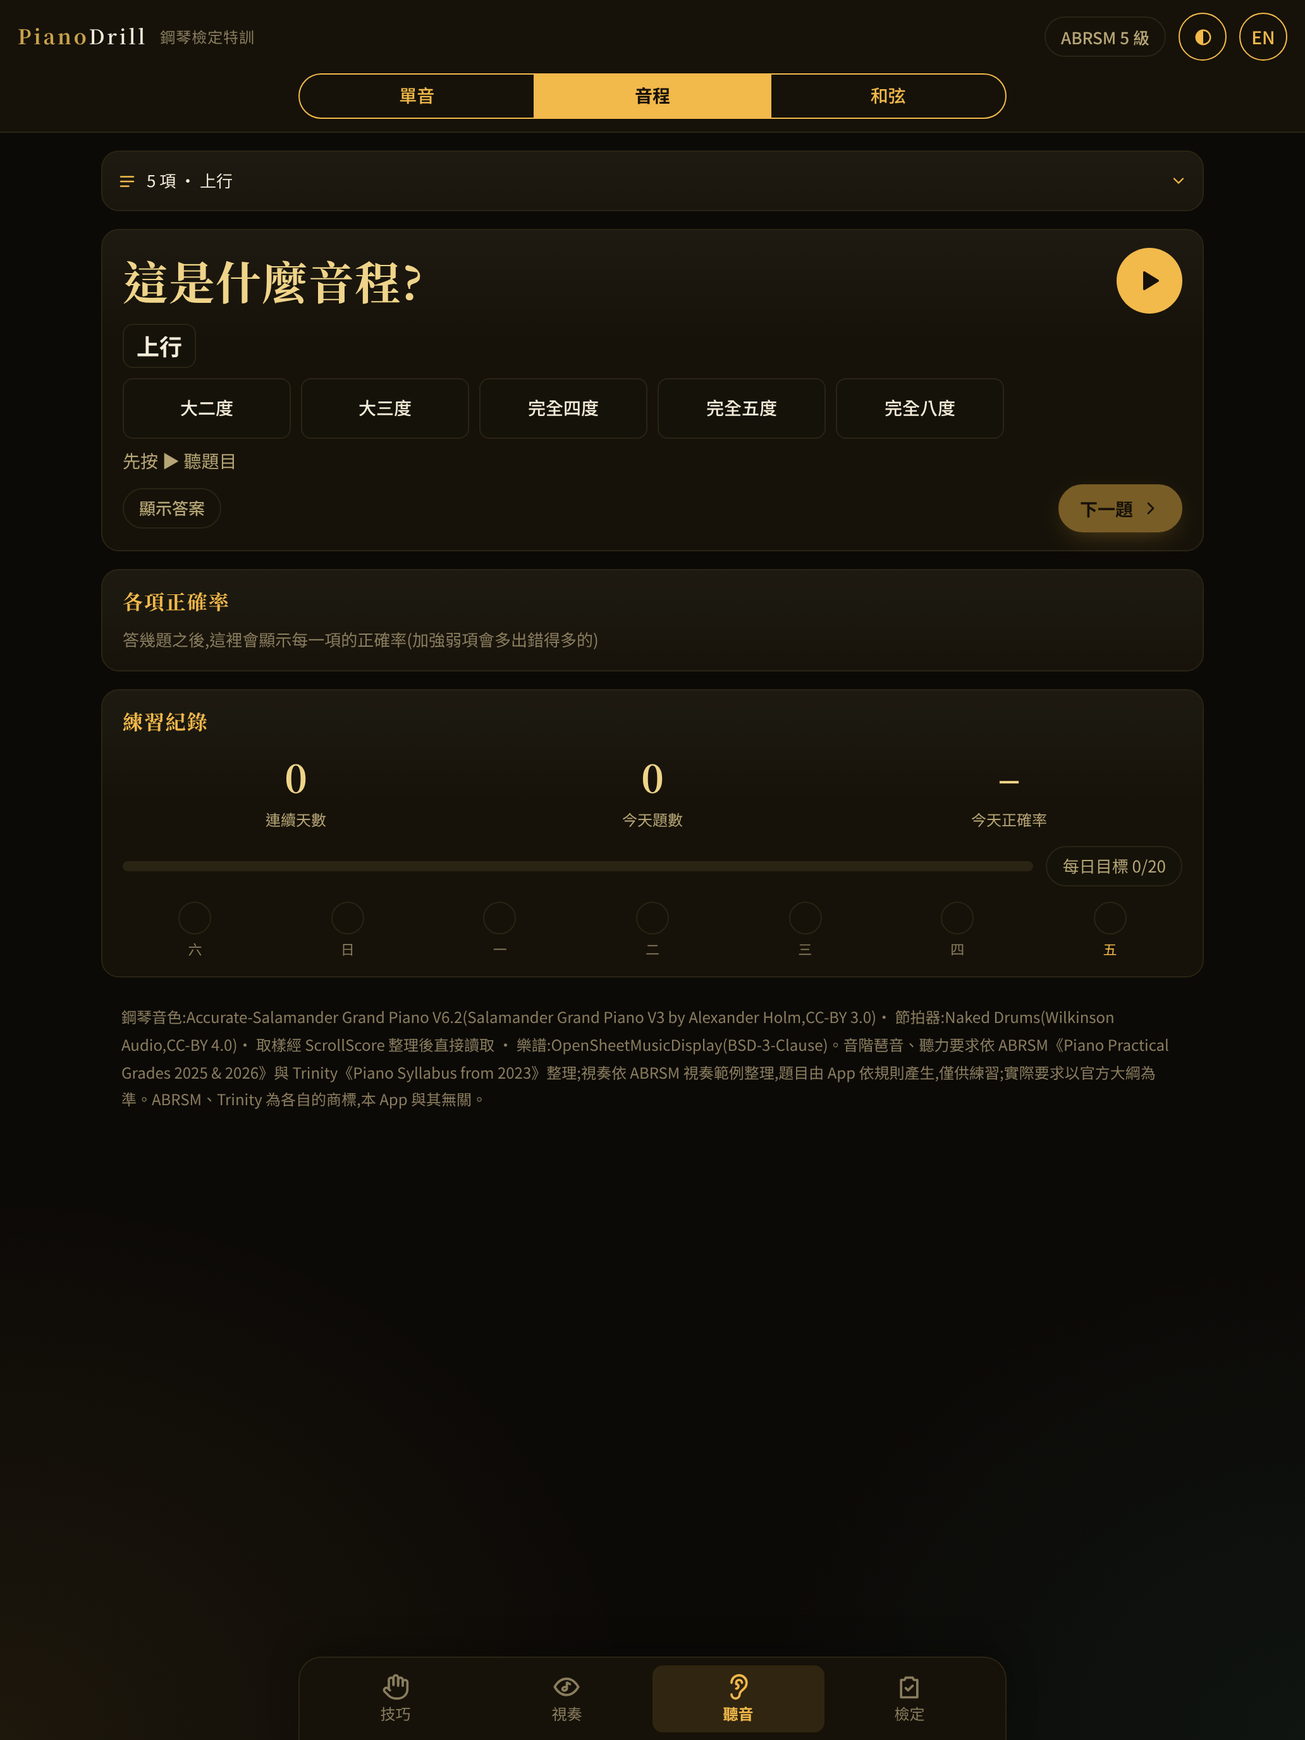
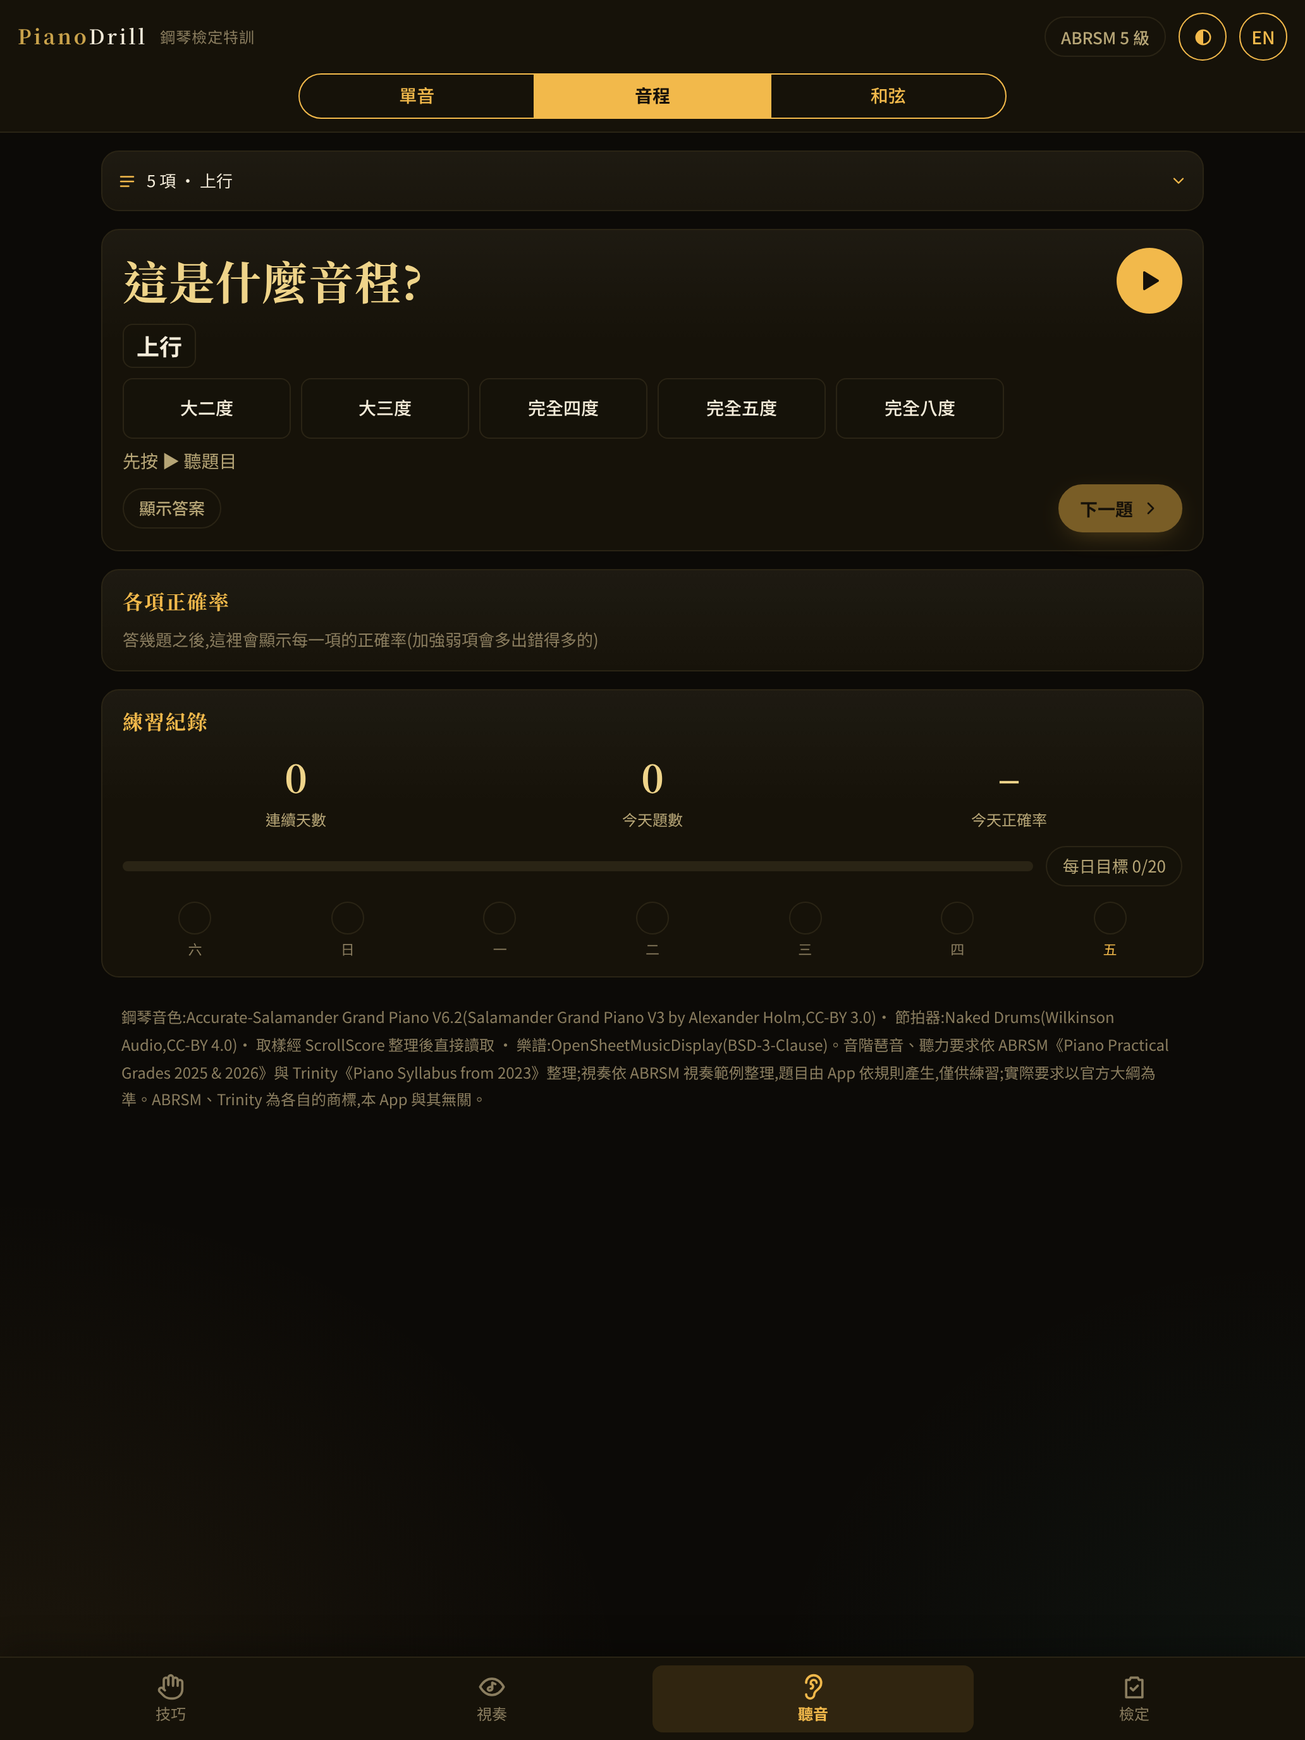
Landscape layout: left tab rail on phones, full-width tab bar everywhere
- Phone landscape: tabs become a full-height rail on the left, header on one line,
  exam settings side by side, compact sight question card
- Technique score in landscape fits the first screen (both staves) and zooms to
  full height during playback; ignores expanded setup cards so the size is stable
- Tablet landscape / desktop: tab bar spans the full width with four equal columns
- Shorter English labels where the half-width exam card wrapped
- layout.mjs checks content is not covered by the left rail; screenshots regenerated

Claude-Session: https://claude.ai/code/session_01CU4RNRRuP9Ch41J4DcSHPj

diff --git a/index.html b/index.html
@@ -18,7 +18,7 @@
 <title>PianoDrill 鋼琴檢定特訓</title>
 <link rel="preconnect" href="https://fonts.googleapis.com">
 <link href="https://fonts.googleapis.com/css2?family=Noto+Serif+TC:wght@600;700&family=Noto+Sans+TC:wght@400;500;700&display=swap" rel="stylesheet">
-<link rel="stylesheet" href="css/app.css?v=01997fa8fd">
+<link rel="stylesheet" href="css/app.css?v=24f6f7d558">
 <link rel="stylesheet" href="css/sight.css?v=5b6b788429">
 </head>
 <body>
@@ -385,9 +385,9 @@
   </div>
 </div>
 
-<script type="importmap">{"imports":{"./js/ear/app.js":"./js/ear/app.js?v=ba708c0490","./js/ear/aural.js":"./js/ear/aural.js?v=7390a4e64c","./js/ear/ear.js":"./js/ear/ear.js?v=ad307c1316","./js/ear/music.js":"./js/ear/music.js?v=11655ff5cd","./js/ear/store.js":"./js/ear/store.js?v=5ace8d1f1f","./js/ear/strings.js":"./js/ear/strings.js?v=eaf7382b0f","./js/main.js":"./js/main.js?v=188bbda61f","./js/shared/audio.js":"./js/shared/audio.js?v=bfd0c34435","./js/shared/i18n.js":"./js/shared/i18n.js?v=e7fb6b2b19","./js/sight/app.js":"./js/sight/app.js?v=7292e6f75a","./js/sight/generator/fingerprint.js":"./js/sight/generator/fingerprint.js?v=2307e1ef7e","./js/sight/generator/generate.js":"./js/sight/generator/generate.js?v=efedf8371e","./js/sight/generator/harmony.js":"./js/sight/generator/harmony.js?v=0ca3956615","./js/sight/generator/index.js":"./js/sight/generator/index.js?v=f1aee5c391","./js/sight/generator/melody.js":"./js/sight/generator/melody.js?v=aa11daf1b9","./js/sight/generator/meter.js":"./js/sight/generator/meter.js?v=efdd9ec3e8","./js/sight/generator/musicxml.js":"./js/sight/generator/musicxml.js?v=917ffeb42b","./js/sight/generator/random.js":"./js/sight/generator/random.js?v=3b9b511386","./js/sight/generator/rhythm.js":"./js/sight/generator/rhythm.js?v=1f2c8f6cbc","./js/sight/generator/theory.js":"./js/sight/generator/theory.js?v=bca3da5ea8","./js/sight/i18n.js":"./js/sight/i18n.js?v=f2c8c777d1","./js/sight/mic.js":"./js/sight/mic.js?v=78259aee92","./js/sight/playback.js":"./js/sight/playback.js?v=b5a78efbb5","./js/sight/scoring.js":"./js/sight/scoring.js?v=679df8a46b","./js/sight/stage.js":"./js/sight/stage.js?v=9ca7fb07ed","./js/tech/app.js":"./js/tech/app.js?v=a1c8df45ba","./js/tech/exercise.js":"./js/tech/exercise.js?v=daf4f223f6","./js/tech/fingering.js":"./js/tech/fingering.js?v=2f23bdb12b","./js/tech/hanon.js":"./js/tech/hanon.js?v=3f1086105e","./js/tech/musicxml.js":"./js/tech/musicxml.js?v=4257980f50","./js/tech/store.js":"./js/tech/store.js?v=75f4c27725","./js/tech/strings.js":"./js/tech/strings.js?v=df142b2981","./js/tech/syllabus.js":"./js/tech/syllabus.js?v=cdf3a21898","./js/tech/theory.js":"./js/tech/theory.js?v=ed03457554"}}</script>
+<script type="importmap">{"imports":{"./js/ear/app.js":"./js/ear/app.js?v=ba708c0490","./js/ear/aural.js":"./js/ear/aural.js?v=7390a4e64c","./js/ear/ear.js":"./js/ear/ear.js?v=ad307c1316","./js/ear/music.js":"./js/ear/music.js?v=11655ff5cd","./js/ear/store.js":"./js/ear/store.js?v=5ace8d1f1f","./js/ear/strings.js":"./js/ear/strings.js?v=eaf7382b0f","./js/main.js":"./js/main.js?v=1ec0774c7d","./js/shared/audio.js":"./js/shared/audio.js?v=bfd0c34435","./js/shared/i18n.js":"./js/shared/i18n.js?v=e7fb6b2b19","./js/sight/app.js":"./js/sight/app.js?v=a601812f5a","./js/sight/generator/fingerprint.js":"./js/sight/generator/fingerprint.js?v=2307e1ef7e","./js/sight/generator/generate.js":"./js/sight/generator/generate.js?v=efedf8371e","./js/sight/generator/harmony.js":"./js/sight/generator/harmony.js?v=0ca3956615","./js/sight/generator/index.js":"./js/sight/generator/index.js?v=f1aee5c391","./js/sight/generator/melody.js":"./js/sight/generator/melody.js?v=aa11daf1b9","./js/sight/generator/meter.js":"./js/sight/generator/meter.js?v=efdd9ec3e8","./js/sight/generator/musicxml.js":"./js/sight/generator/musicxml.js?v=917ffeb42b","./js/sight/generator/random.js":"./js/sight/generator/random.js?v=3b9b511386","./js/sight/generator/rhythm.js":"./js/sight/generator/rhythm.js?v=1f2c8f6cbc","./js/sight/generator/theory.js":"./js/sight/generator/theory.js?v=bca3da5ea8","./js/sight/i18n.js":"./js/sight/i18n.js?v=d3d110722a","./js/sight/mic.js":"./js/sight/mic.js?v=78259aee92","./js/sight/playback.js":"./js/sight/playback.js?v=b5a78efbb5","./js/sight/scoring.js":"./js/sight/scoring.js?v=679df8a46b","./js/sight/stage.js":"./js/sight/stage.js?v=9ca7fb07ed","./js/tech/app.js":"./js/tech/app.js?v=16f605a639","./js/tech/exercise.js":"./js/tech/exercise.js?v=daf4f223f6","./js/tech/fingering.js":"./js/tech/fingering.js?v=2f23bdb12b","./js/tech/hanon.js":"./js/tech/hanon.js?v=3f1086105e","./js/tech/musicxml.js":"./js/tech/musicxml.js?v=4257980f50","./js/tech/store.js":"./js/tech/store.js?v=75f4c27725","./js/tech/strings.js":"./js/tech/strings.js?v=f389816556","./js/tech/syllabus.js":"./js/tech/syllabus.js?v=cdf3a21898","./js/tech/theory.js":"./js/tech/theory.js?v=ed03457554"}}</script>
 <script type="application/json" id="pdVersions">{"data/aural.json":"c2589a3fb5","data/fingerings.json":"01a74f2d0c","data/sight-rules.json":"c79f4a9db5","data/syllabus.json":"30b5443db2"}</script>
 <script src="vendor/opensheetmusicdisplay.min.js?v=4bfeb3d01c"></script>
-<script type="module" src="js/main.js?v=188bbda61f"></script>
+<script type="module" src="js/main.js?v=1ec0774c7d"></script>
 </body>
 </html>

diff --git a/css/app.css b/css/app.css
@@ -338,7 +338,7 @@ main{padding-bottom:calc(84px + env(safe-area-inset-bottom))}
   font-family:inherit;font-size:var(--fs-xs);padding:6px 0;cursor:pointer;border-radius:var(--radius-sm);min-height:52px}
 .tabbar button[aria-selected="true"]{color:var(--gold)}
 .tabbar button[aria-selected="true"] span{font-weight:700}
-@media (min-width:901px){ .tabbar{left:50%;right:auto;transform:translateX(-50%);width:min(560px, 100%);border:1px solid var(--line);border-bottom:0;border-radius:var(--radius-lg) var(--radius-lg) 0 0} }
+/* 寬畫面(平板橫式、電腦)也跟直式一樣滿版貼底、四格平均分配整個寬度(使用者要求) */
 #examChip{max-width:44vw;overflow:hidden;text-overflow:ellipsis}
 
 /* 選擇器:每一列 = 標籤 + 一排按鈕(太多時橫向捲動,頁面不橫向捲) */
@@ -690,4 +690,48 @@ body.land-play #t-stage{flex:1;display:flex;flex-direction:column;justify-conten
   .mod-side .picker .opt{min-width:0;padding:0 6px}
   #mod-tech .picker .opts[data-k="key"],#mod-tech .picker .opts[data-k="no"]{--cw:50px}
   #mod-tech .picker .opts[data-k="octaves"]{--cw:72px}
+}
+
+/* ══ 手機橫放(高度 ≤ 500):使用者反映比例怪、底部四個分頁卡住內容 ══
+   - 四個分頁改成左邊的直欄(橫放時寬度多、高度少;左邊本來就是瀏海/動態島的區域),下面什麼都不蓋
+   - 頂欄一行:藏副標與考試標籤(底部「檢定」分頁就有)
+   - 題目卡的「點題提示」字縮小;檢定分頁「考試設定」與「抽考設定」排在同一列 */
+@media (orientation:landscape) and (max-height:500px){
+  body{padding-left:calc(68px + env(safe-area-inset-left))}
+  .tabbar{top:0;bottom:0;left:0 !important;right:auto;width:calc(68px + env(safe-area-inset-left)) !important;transform:none !important;
+    display:flex;flex-direction:column;justify-content:center;gap:6px;border:0;border-right:1px solid var(--line);border-radius:0 !important;box-shadow:none;
+    padding:max(6px, env(safe-area-inset-top)) 6px max(6px, env(safe-area-inset-bottom)) max(6px, env(safe-area-inset-left))}
+  .tabbar button{flex-direction:column !important;gap:2px !important;min-height:52px !important;padding:4px 0 !important;font-size:10px;justify-content:center}
+  .tabbar svg{width:20px !important;height:20px !important}
+  body.land-play .tabbar{transform:none !important}
+  main{padding-bottom:max(12px, env(safe-area-inset-bottom)) !important}
+  footer{padding-bottom:max(16px, env(safe-area-inset-bottom))}
+  header{flex-wrap:nowrap}
+  .tagline,#examChip{display:none !important}
+  .subnav{flex:1 1 auto;max-width:460px;margin-left:auto}
+  .q-title.empty,#mod-ear .q-title.empty{font-size:var(--fs-lg)}
+  /* 檢定:兩條收起來的設定列並排(頁尾排最後:格子裡沒寫 order 的會被排到前面) */
+  body.view-exam footer{order:99}
+  body.view-exam #examSetup .fields{grid-template-columns:1fr}
+  body.view-exam .mod .setup .fields{grid-template-columns:repeat(2, minmax(0, 1fr))}
+  body.view-exam .exam-parts{grid-template-columns:1fr}
+  body.view-exam .part{min-height:0;flex-direction:row;align-items:baseline;gap:8px}
+  body.view-exam .part small{min-height:0}
+  body.view-exam main{display:grid;grid-template-columns:minmax(0,1fr) minmax(0,1fr);gap:8px;align-items:start}
+  body.view-exam main > .mod:not([hidden]){display:contents}
+  body.view-exam main > *{grid-column:1 / -1}
+  body.view-exam #examSetup{grid-column:1;grid-row:1}
+  body.view-exam #t-paneExam,body.view-exam #e-paneExam,body.view-exam #s-setup{grid-column:2;grid-row:1}
+  body.view-exam .mod-side > *,body.view-exam .mod-main > *{grid-column:1 / -1}
+  body.view-exam #t-paneExam,body.view-exam #e-paneExam,body.view-exam #s-setup{grid-column:2 !important}
+  /* 視奏題目卡:標題 | 標籤 | ▶ 一行,下面一行說明,再一行操作 */
+  #mod-sight .quiz{display:grid;grid-template-columns:auto minmax(0,1fr) auto;align-items:center;gap:4px 12px}
+  #mod-sight .q-head,#mod-sight .q-row{display:contents}
+  #s-title{grid-column:1;grid-row:1;font-size:24px;height:auto}
+  #mod-sight .q-row .q-tags{grid-column:2;grid-row:1;min-height:0}
+  #s-play{grid-column:3;grid-row:1;width:44px;height:44px}
+  #s-message{grid-column:1 / -1;grid-row:2;font-size:var(--fs-sm);min-height:0}
+  #s-checklist{grid-column:1 / -1}
+  #mod-sight .q-foot{grid-column:1 / -1}
+  #mod-sight .q-tag{font-size:14px;padding:0 8px;line-height:26px}
 }

diff --git a/js/tech/app.js b/js/tech/app.js
@@ -449,11 +449,26 @@ function fitLandZoom(){
   if (!isPhoneLand()) { if (landZoom) { landZoom = null; return refit(); } return false; }
   const svg = $("osmd").querySelector("svg"); if (!svg || !osmd) return false;
   const H = svg.getBoundingClientRect().height; if (!H) return false;
-  const head = document.querySelector("header").offsetHeight, title = $("scoreCard").querySelector(".card-title").offsetHeight;
-  const avail = innerHeight - head - title - 44;           // 卡片與紙的上下內距、間隔
-  const z = Math.max(0.85, Math.min(1.8, osmd.zoom * avail / H));
+  // 第一個畫面(沒有捲動時)樂譜上緣以下還剩多少高度:雙手兩行譜都要看得到(以前照「樂譜卡貼頂欄」算,沒播放時下面那行被切掉)
+  // 播放中(樂譜卡貼在頂欄下面)可以放到滿版
+  const playing = document.body.classList.contains("land-play");
+  const top = playing ? document.querySelector("header").offsetHeight + $("scoreCard").querySelector(".card-title").offsetHeight + 30
+    : $("stage").getBoundingClientRect().top + scrollY - openSetupHeight();
+  const avail = Math.max(130, innerHeight - top - 14);
+  const z = Math.max(0.6, Math.min(1.8, osmd.zoom * avail / H));
   if (Math.abs(z - osmd.zoom) < 0.03) { landZoom = osmd.zoom; return false; }
   landZoom = z; return refit();
+}
+// 上方展開的設定卡不算(照收合時的位置算):不然展開/收合設定、切語言時樂譜大小跟著變
+function openSetupHeight(){
+  const st = $("stage").getBoundingClientRect().top;
+  // 並排的設定卡(橫式檢定分頁)垂直範圍重疊,只算一次
+  const spans = [...document.querySelectorAll(".setup.open .setup-body, .picker.open .setup-body")]
+    .map(el => el.getBoundingClientRect()).filter(r => r.height && r.bottom <= st)
+    .map(r => [r.top - 8, r.bottom]).sort((a, b) => a[0] - b[0]);
+  let h = 0, end = -Infinity;
+  for (const [a, b] of spans) { if (b <= end) continue; h += b - Math.max(a, end); end = b; }
+  return h;
 }
 function refit(){ osmd.zoom = scoreZoom(); lastZoom = osmd.zoom; renderOsmd(); measureNotes(); return true; }
 async function renderScore(){
@@ -852,12 +867,14 @@ function revealScore(){
     // 樂譜卡貼在工具列下面、下方分頁列收起來,樂譜延伸到底
     if (landScroll == null) landScroll = scrollY;
     document.body.classList.add("land-play");
+    if (fitLandZoom()) movePlayline(0, false);   // 播放時樂譜放大到滿版
     const top = $("scoreCard").getBoundingClientRect().top - document.querySelector("header").getBoundingClientRect().bottom - 6;
     if (Math.abs(top) > 2) window.scrollBy({ top, behavior: "smooth" });
     return;
   }
   const r = $("scoreCard").getBoundingClientRect(), bar = document.querySelector(".tabbar");
-  const bottom = bar ? bar.getBoundingClientRect().top : innerHeight;
+  const bt = bar ? bar.getBoundingClientRect().top : innerHeight;
+  const bottom = bt > innerHeight / 2 ? bt : innerHeight;   // 手機橫放時分頁列在左邊(top = 0),下面沒有東西擋
   if (r.bottom > bottom - 4) window.scrollBy({ top: Math.min(r.bottom - bottom + 8, r.top - 4), behavior: "smooth" });
   else if (r.top < 0) window.scrollBy({ top: r.top - 8, behavior: "smooth" });
 }
@@ -923,6 +940,7 @@ function stopPlayback(natural, keepView){
   if (!keepView && landScroll != null) {
     document.body.classList.remove("land-play");
     window.scrollTo({ top: landScroll, behavior: "smooth" }); landScroll = null;
+    fitLandZoom();   // 停止後縮回第一個畫面放得下的大小
   }
   if (play) { cancelAnimationFrame(play.raf); play = null; if (!natural) audio.stopAll(); }
   if (osmd && noteXs.length) { $("scroll").scrollLeft = 0; movePlayline(0, false); }

diff --git a/js/sight/i18n.js b/js/sight/i18n.js
@@ -18,6 +18,7 @@ export const I18N = {
     logTotal: '出過的題目',
     examReady: '按「產生新題目」開始',
     examNotYet: '這一級還沒有視奏題目',
+    examNotYetShort: '這一級還沒有題目',
     unsupportedTrinity: 'Trinity 的視奏還沒有出題規則:目前的規則是照 ABRSM 官方視奏範例(1–8 級)整理的,Trinity 的要求不同,不拿來充數。想練看譜可以先用「視奏」分頁自由練習 ABRSM 的題目。',
     unsupportedInitial: 'ABRSM 初級的視奏還沒有出題規則(目前只照官方範例做了 1–8 級)。可以先用「視奏」分頁練 1 級。',
     pageTitle: 'SightDrill — 視奏隨機題目生成器',
@@ -108,6 +109,7 @@ export const I18N = {
     logTotal: 'Tests seen',
     examReady: 'Tap New test to start',
     examNotYet: 'No sight-reading tests for this grade yet',
+    examNotYetShort: 'None for this grade yet',
     unsupportedTrinity: "Trinity sight-reading isn't covered yet: the rules here are modelled on ABRSM's official specimen tests (Grades 1–8), and Trinity's requirements differ, so we don't fake them. For reading practice, use the Sight-read tab with ABRSM tests.",
     unsupportedInitial: "ABRSM Initial sight-reading isn't covered yet (only Grades 1–8 so far, modelled on the official specimens). Try Grade 1 in the Sight-read tab.",
     pageTitle: 'SightDrill — Sight-Reading Test Generator',

diff --git a/js/sight/app.js b/js/sight/app.js
@@ -650,7 +650,7 @@ export function relang() {
   if (mode === 'exam') renderUnsupported();
 }
 export function examStatus() {
-  if (!examSupported()) return t('examNotYet');
+  if (!examSupported()) return t('examNotYetShort');
   const { today, streak } = practiceStats();
   return today ? t('practiceStats', { today, streak }) : t('examReady');
 }
@@ -1020,7 +1020,9 @@ function availableScoreHeight() {
   const header = document.querySelector('header');
   const top = header ? header.getBoundingClientRect().height : 0;
   const bar = document.getElementById('tabbar');
-  const bottom = bar && getComputedStyle(bar).position === 'fixed' ? bar.getBoundingClientRect().top : (window.innerHeight || document.documentElement.clientHeight);
+  // 分頁列在下面才扣掉它;手機橫放時分頁列是左邊的直欄(top = 0),不佔下面的高度
+  const barBox = bar ? bar.getBoundingClientRect() : null;
+  const bottom = barBox && barBox.top > window.innerHeight / 2 ? barBox.top : (window.innerHeight || document.documentElement.clientHeight);
   const card = $('scoreCard').getBoundingClientRect(), score = elements.score.getBoundingClientRect();
   const chrome = score.top - card.top;   // 樂譜卡的標題列與內距
   return Math.max(120, bottom - top - chrome - SCORE_BOTTOM_GAP);

diff --git a/js/tech/strings.js b/js/tech/strings.js
@@ -5,7 +5,7 @@ addStrings("tech", {
   lblSet: ["準備哪一組(Trinity)", "Set (Trinity)"],
   setA: ["A 組", "Set A"], setB: ["B 組", "Set B"],
   lblQuality: ["大調 / 小調", "Major / minor"], qAll: ["全部", "All"], qMajor: ["大調", "Major"], qMinor: ["小調", "Minor"],
-  lblMinorForm: ["小調形式(考生自選時)", "Minor form (your choice)"],
+  lblMinorForm: ["小調形式(考生自選時)", "Minor form (choice)"],
   formHarmonic: ["和聲小調", "Harmonic minor"], formMelodic: ["旋律小調", "Melodic minor"], formNatural: ["自然小調(大綱允許時)", "Natural minor (where allowed)"],
   lblCats: ["抽考範圍", "Include"], excludeMastered: ["排除已通過的項目", "Skip passed items"],
   draw: ["隨機抽考", "Random"], next: ["下一項", "Next"], play: ["播放示範", "Play"], stop: ["停止", "Stop"],

diff --git a/js/main.js b/js/main.js
@@ -105,6 +105,7 @@ function showView(view){
   for (const [name, m] of Object.entries(MODS)) $("mod-" + name).hidden = name !== modName;
   curMod = modName;
   document.body.classList.toggle("view-sight", modName === "sight");
+  document.body.classList.toggle("view-exam", exam);
   renderSubnav();
   if (exam) renderExamCard();
   window.scrollTo({ top: 0 });

diff --git a/CLAUDE.md b/CLAUDE.md
@@ -39,6 +39,10 @@ FingerDrill(技巧)、SightDrill(視奏)、EarDrill(聽音)三個工具合併成
 - **每種裝置都要飽滿**(使用者要求):每個模組的卡片分 `.mod-side`(設定、紀錄、清單)與 `.mod-main`(題目、樂譜/作答、速度、正確率)。
   寬度 ≥1100(平板橫式、筆電、桌機)兩欄、內容最寬 1480;以下一欄(兩個容器 display:contents,卡片照 CSS order 排),設定卡收成一行。
   第一個畫面題目卡要在上半部(layout.mjs 會檢查)
+- **手機橫式**(orientation:landscape 且高度 ≤ 500;使用者:比例怪、底部被四個欄位卡住):分頁列改成左邊直的一欄(不佔高度)、頂欄一行(藏副標與考試標籤)、
+  檢定分頁的考試設定與各模組的檢定說明左右並排、視奏題目卡標題/標籤/▶ 擠成一行;技巧樂譜依「樂譜框到畫面底」放大(fitLandZoom),播放時再放大到滿版。
+  layout.mjs 檢查內容不被左邊分頁列蓋住
+- 分頁列一律滿版(使用者要求):直式與寬畫面(平板橫式、電腦)貼底、左右到邊,四格平均分配整個寬度;手機橫式是左邊從上到下的一欄
 - **三個模組的排版要一致**(使用者:不然像拼圖硬拼在一起):頂欄下一列是子項目(視奏 = 級數 1–8)→ 設定卡(手機收成一行)→ 題目卡
   (大標題 + 右邊圓形 ▶、下面一排標籤、左下次要動作、右下主要動作)→ 內容卡(樂譜 / 作答)→ 練習紀錄(三格數字 + 最近 7 天);題目大標題三個模組同一個大小
 - **視奏譜面要像印出來的考卷**(使用者要求,取代 SightDrill 原本「譜表大小固定、放不下就一小節一行」的規則):
